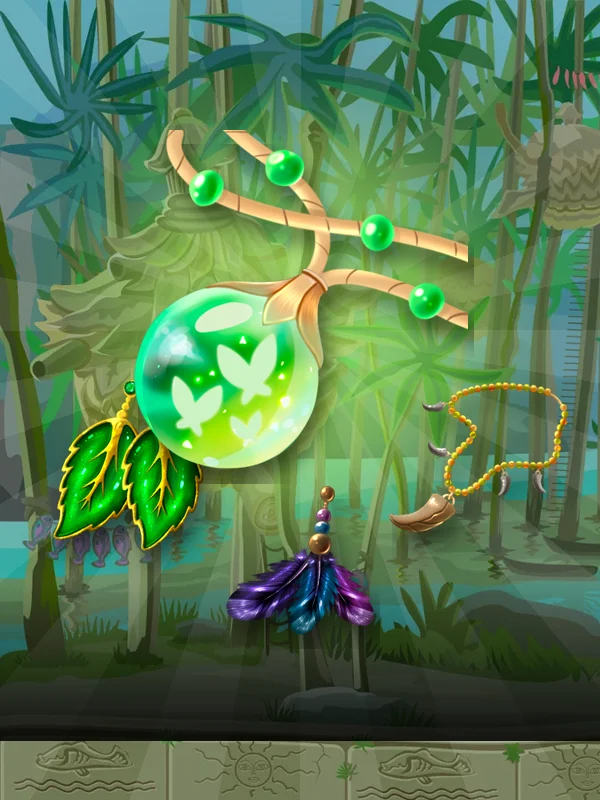
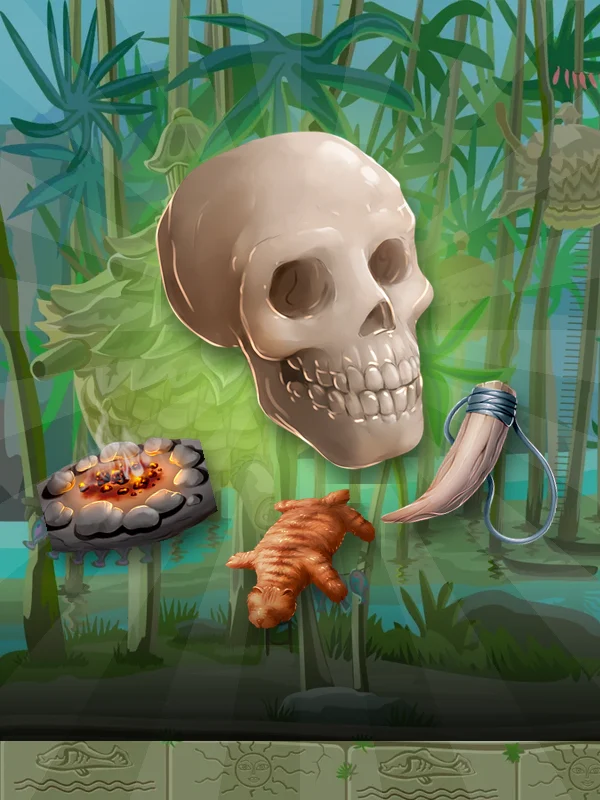
Round 20: Cosmic Candy and Mayan Mystery get their own symbol sets
Claude-Session: https://claude.ai/code/session_01LcC21fng844zb5K8BRYuAt

Changed region(s): [[0.06, 0.1562, 0.96, 0.8125]]

diff --git a/LuckyVault/public/sw.js b/LuckyVault/public/sw.js
@@ -1,5 +1,5 @@
 // Offline cache for the game client (API calls always go to the network).
-const V = 'lv-v75';
+const V = 'lv-v76';
 const FILES = ['./', './index.html', './config.js', './manifest.webmanifest', './js/slots-engine.js', './js/catalog.js', './js/tables-engine.js', './js/tables-ui.js', './js/social.js', './js/fx.js', './js/feat-ui.js', './js/hov-ui.js', './js/roadmap.js', './js/vegas.js', './js/rules.js', './js/onboard.js', './js/friends-ui.js', './js/rg.js', './js/support-ui.js', './js/replay.js', './js/fx2.js', './js/i18n.js', './js/iap.js', './assets/fonts/Anton.woff2', './assets/fonts/Cinzel.woff2', './icons/icon-192.png', './icons/icon-512.png'];
 self.addEventListener('install', e => { e.waitUntil(caches.open(V).then(c => c.addAll(FILES)).then(() => self.skipWaiting())); });
 self.addEventListener('activate', e => { e.waitUntil(caches.keys().then(ks => Promise.all(ks.filter(k => k !== V).map(k => caches.delete(k)))).then(() => self.clients.claim())); });

diff --git a/LuckyVault/tools/build_skins.py b/LuckyVault/tools/build_skins.py
@@ -293,3 +293,4 @@ json.dump(man, open(OUT + '/manifest.json', 'w'), indent=1, ensure_ascii=False)
 # round 16: dragon-empire-4096 <- dragon loot 3,32,31,36,34,28,43,49,12,W47,S45 ; neon-nights <- gems 20,3,92,78,81,82,61,76,26,W64,S30 (both were 11/11 identical to golden-dragon / star-gems)
 # round 17: ice-queen <- rpg-elixir-icons 50,17,21,35,10,19,25,6,47,W37,S13 (frost potions) ; bamboo-panda lows <- elixir 12 wine gourd,20,22,11,9 (herbal tonics)
 # round 19: space/robot group: lows replaced (alien gems 23,86,41,35,31 | space-odyssey planes 1,4,6,8,3 | cosmic gems 42,11,4,7,16 | robot-factory gems 79,28,53,62,24 | robot-walkers planes 2,5,7,9,10); h1-h4 + a_h* sprite sheets hue-shifted (odyssey 200, cosmic 110, factory 40, walkers 150)
+# round 20: cosmic-candy <- sweets-2d-game-items 22,32,34,39,11,37,24,35,8 ; mayan-mystery <- stone-age 25,45,9,42,27,26,30,15,36 (W/S kept)

diff --git a/LuckyVault/CHANGELOG.md b/LuckyVault/CHANGELOG.md
@@ -387,3 +387,6 @@ Platform release: everything on the "do all of these" list except the public dep
 
 ## Round 19 (18:55) — Space / robot group de-duplicated
 - 5 games shared the same rocket lows and purple enemy ships. Each now has its own low set (painted space gems / player ships) and its own ship colour (sprite animations recoloured too) + new covers. sw lv-v75. Tests 90/90.
+
+## Round 20 (19:00) — Cosmic Candy & Mayan Mystery own sets
+- Cosmic Candy shared 9/11 with Candy Carnival -> lollipops / ice-cream set. Mayan Mystery shared 9/11 with Aztec Treasure Link -> stone-age ritual set (skull, fire pit, horn, roots, berries, mushrooms, herbs). New covers. sw lv-v76. Tests 90/90.
